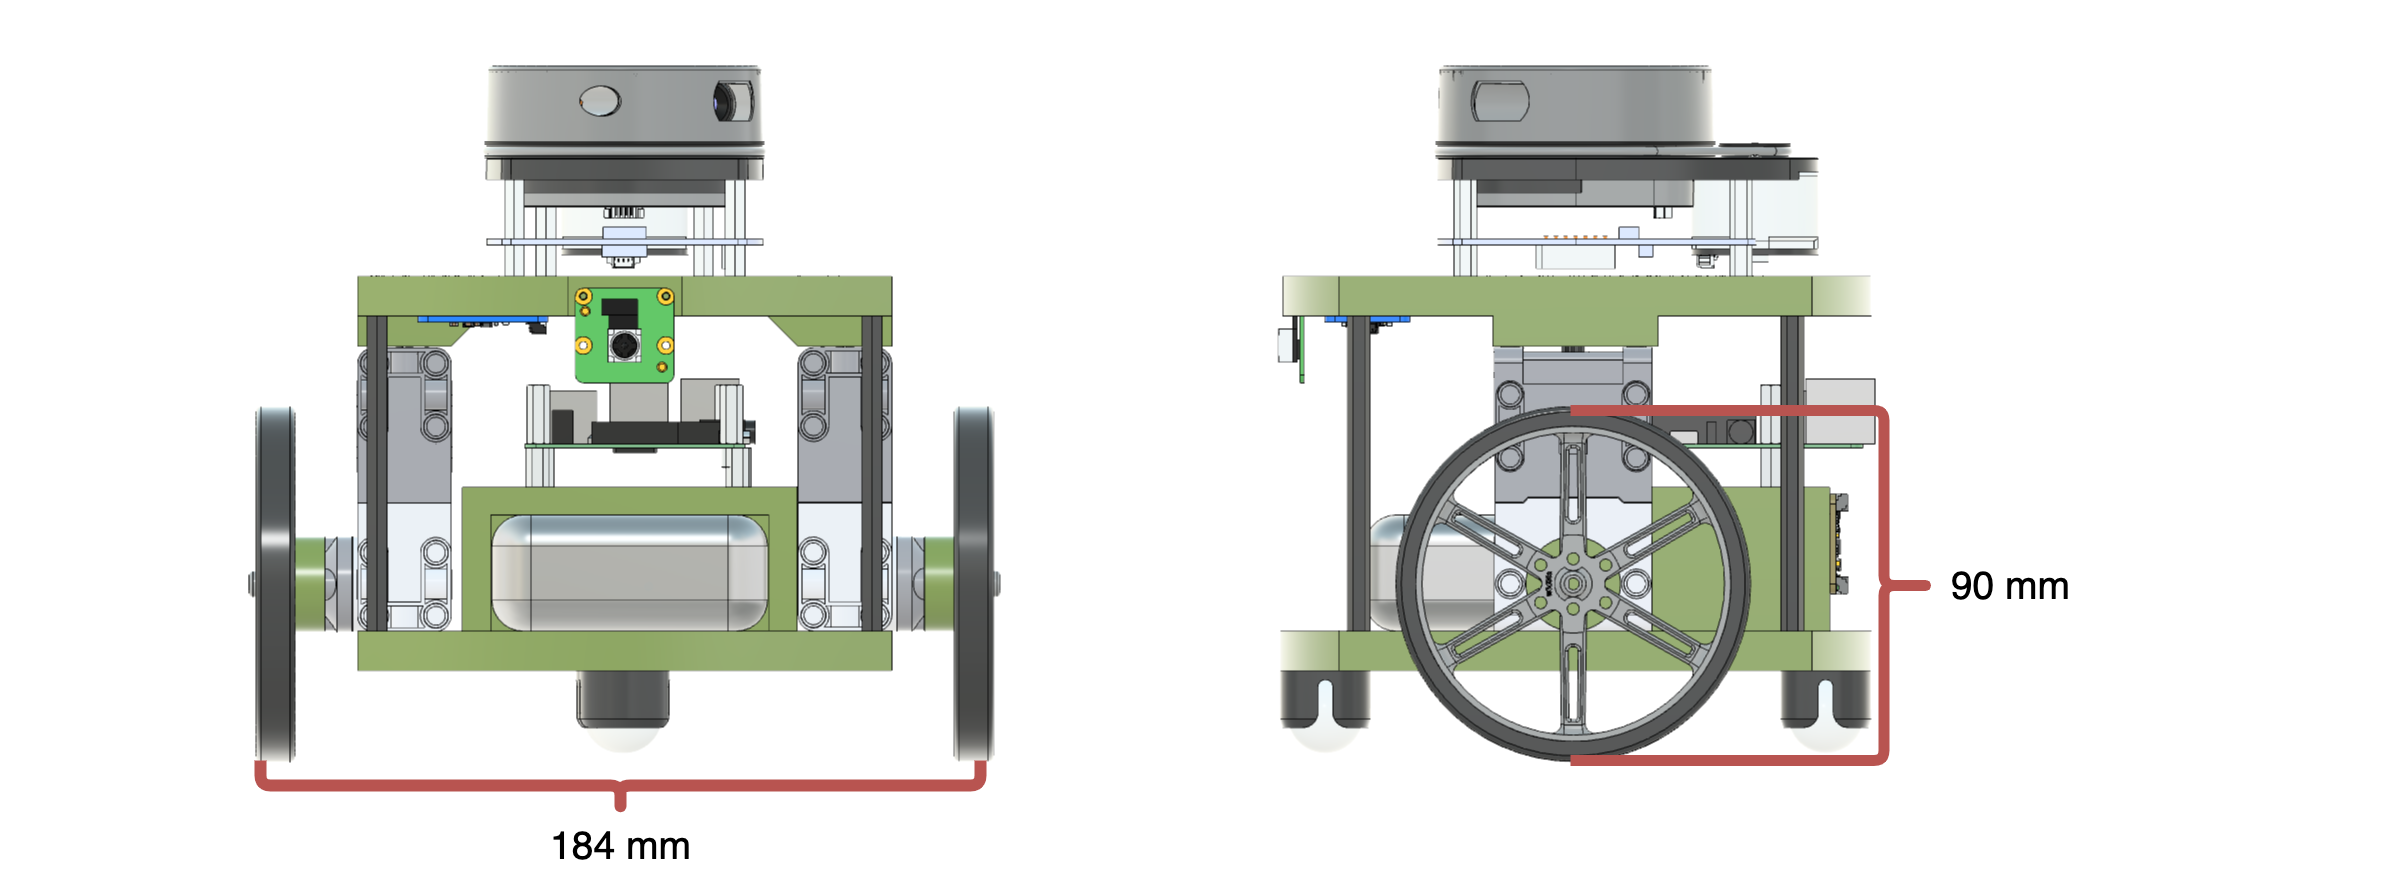
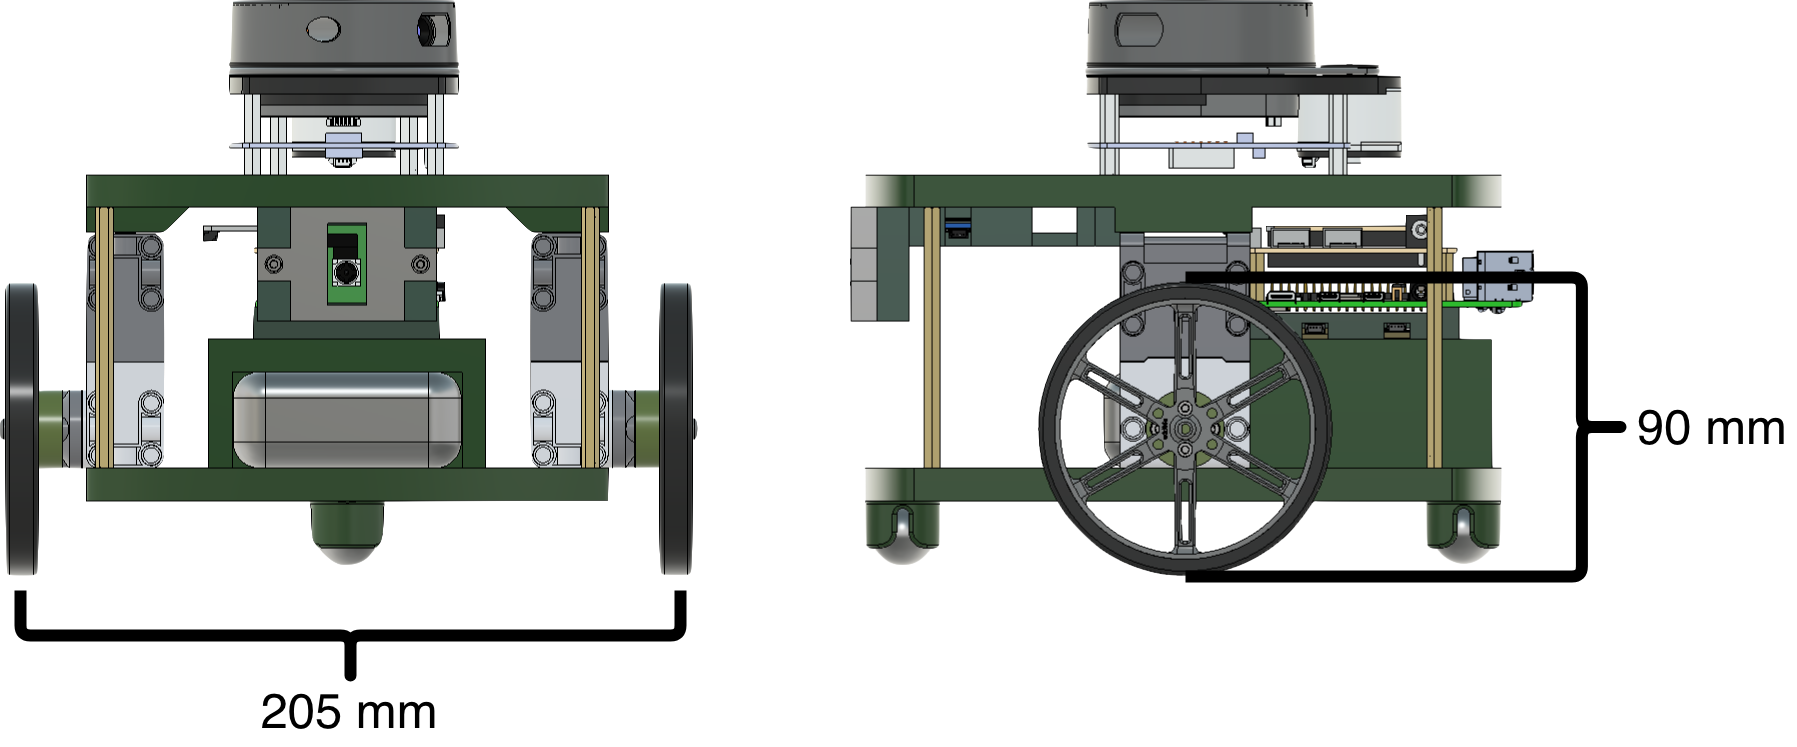
Update robot_systems README with current HamBot specs and figures
Sync specifications, dimensions image, and multi-view photos from the
REALM repo so the docs reflect the actual robot instead of the outdated
description.

diff --git a/packages/robot_systems/README.md b/packages/robot_systems/README.md
@@ -2,18 +2,61 @@
 
 HamBot is a Python library designed to control a robot equipped with various sensors, including IMU, Lidar, and Camera. The library simplifies robot programming, providing easy-to-use interfaces for sensor data acquisition and motor control.
 
-![Pi Camera](docs/figures/hambot_dims.png)
-## Technical Specifications
+The physical HamBot is an open-source differential drive robot.
 
-| Component                  | Specification                                                                                                                                                                                                            |
-|-----------------------------|--------------------------------------------------------------------------------------------------------------------------------------------------------------------------------------------------------------------------|
-| Wheel Diameter / Radius     | 90 mm / 45 mm                                                                                                                                                                                                            |
-| Axel Length (wheel spacing) | 184 mm                                                                                                                                                                                                                   |
-| Max Motor Speed             | 75 RPM (approx. 7.85 rad/s)                                                            <br/>                                                                                                                             |
-| Drive Motors                | LEGO Technic Large Angular Motors via Raspberry Pi Build HAT ([Datasheet](https://le-www-live-s.legocdn.com/sc/media/files/support/spike-prime/techspecs_techniclargeangularmotor-1b79e2f4fbb292aaf40c97fec0c31fff.pdf)) |
-| IMU                         | Adafruit BNO055 Absolute Orientation Sensor                                                                                                                                                                              |
-| LiDAR                       | Slamtec RPLidar (360° scanning)                                                                                                                                                                                          |
-| Camera                      | Raspberry Pi Camera Board v2 (8 MP)                                                                                                                                                                                      |
+---
+
+### Robot Views
+
+<table>
+  <tr>
+    <td align="center"><b>Front</b></td>
+    <td align="center"><b>Rear</b></td>
+    <td align="center"><b>Left</b></td>
+  </tr>
+  <tr>
+    <td><img src="docs/figures/HamBot_front_NB.png" width="220"/></td>
+    <td><img src="docs/figures/HamBot_rear_NB.png" width="220"/></td>
+    <td><img src="docs/figures/HamBot_left_NB.png" width="220"/></td>
+  </tr>
+  <tr>
+    <td align="center"><b>Right</b></td>
+    <td align="center"><b>Top</b></td>
+    <td align="center"><b>Bottom</b></td>
+  </tr>
+  <tr>
+    <td><img src="docs/figures/HamBot_right_NB.png" width="220"/></td>
+    <td><img src="docs/figures/HamBot_top_NB.png" width="220"/></td>
+    <td><img src="docs/figures/HamBot_bottom_NB.png" width="220"/></td>
+  </tr>
+</table>
+
+---
+
+### Specifications
+
+![HamBot Dimensions](docs/figures/HamBot_Dims.png)
+
+| Characteristic                   | Value         |
+|----------------------------------|---------------|
+| Length                           | 200 mm        |
+| Width                            | 184 mm        |
+| Wheel Diameter / Radius          | 90 mm / 45 mm |
+| Axel Width                       | 205 mm        |
+| Height                           | 220 mm        |
+| Weight                           | 1.65 kg       |
+| Max forward/reverse wheel speed  | 0.81 m/s      |
+| Max forward/reverse motor speed  | 18 rad/s      |
+
+### Hardware
+
+| Component | Details |
+|-----------|---------|
+| Motors | [LEGO Technic Large Motors](https://le-www-live-s.legocdn.com/sc/media/files/support/spike-prime/techspecs_techniclargeangularmotor-1b79e2f4fbb292aaf40c97fec0c31fff.pdf) via [LEGO Build HAT](https://www.raspberrypi.com/products/build-hat/) |
+| IMU | [Adafruit BNO055](https://learn.adafruit.com/adafruit-bno055-absolute-orientation-sensor/python-circuitpython) |
+| LiDAR | [Slamtec RPLidar A2](https://learn.adafruit.com/slamtec-rplidar-on-pi) |
+| Camera | Front-facing, 224×224, with object recognition |
+| GPS | Absolute position in world frame |
 
 ---
 ## Features
